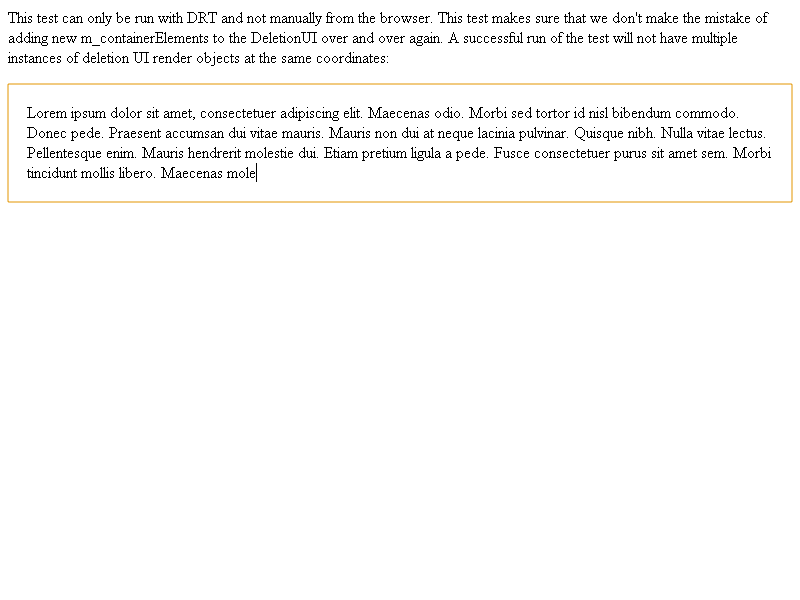
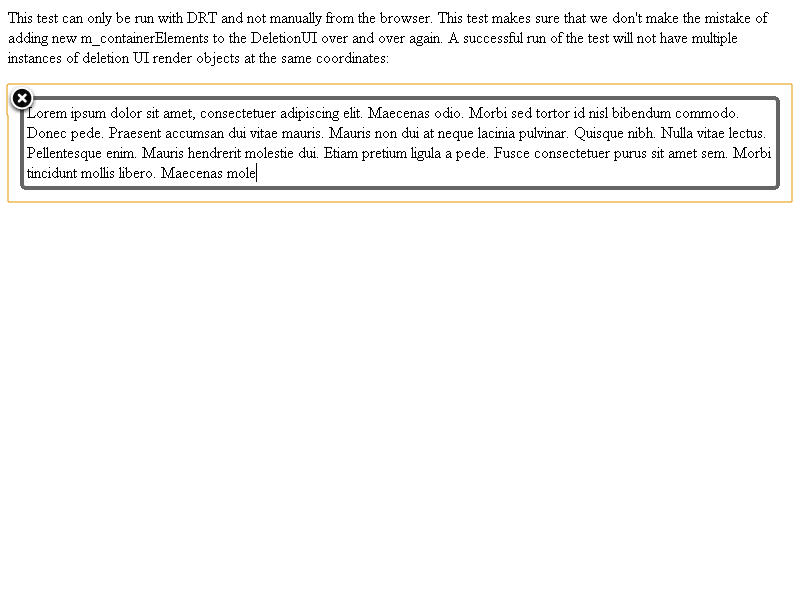
Make the editor deletion UI work in layout test mode and rebase 2 tests that use it.  The only difference is font size.
BUG=http://b/1124435

Review URL: http://codereview.chromium.org/11536

git-svn-id: http://src.chromium.org/svn/trunk/src@5790 4ff67af0-8c30-449e-8e8b-ad334ec8d88c

Changed region(s): [[0.0, 0.15, 0.9688, 0.3], [0.0312, 0.3, 0.9688, 0.33], [0.9688, 0.18, 1.0, 0.3]]

diff --git a/webkit/tools/test_shell/test_shell.cc b/webkit/tools/test_shell/test_shell.cc
@@ -442,32 +442,57 @@ bool GetPreferredExtensionForMimeType(const std::string& mime_type,
 }
 
 std::string GetDataResource(int resource_id) {
-  if (resource_id == IDR_BROKENIMAGE) {
+  switch (resource_id) {
+  case IDR_BROKENIMAGE: {
     // Use webkit's broken image icon (16x16)
     static std::string broken_image_data;
     if (broken_image_data.empty()) {
-      std::wstring path;
+      FilePath path;
       PathService::Get(base::DIR_SOURCE_ROOT, &path);
-      file_util::AppendToPath(&path, L"webkit");
-      file_util::AppendToPath(&path, L"tools");
-      file_util::AppendToPath(&path, L"test_shell");
-      file_util::AppendToPath(&path, L"resources");
-      file_util::AppendToPath(&path, L"missingImage.gif");
-      bool success = file_util::ReadFileToString(path, &broken_image_data);
+      path = path.Append(FILE_PATH_LITERAL("webkit"));
+      path = path.Append(FILE_PATH_LITERAL("tools"));
+      path = path.Append(FILE_PATH_LITERAL("test_shell"));
+      path = path.Append(FILE_PATH_LITERAL("resources"));
+      path = path.Append(FILE_PATH_LITERAL("missingImage.gif"));
+      bool success = file_util::ReadFileToString(path.ToWStringHack(),
+                                                 &broken_image_data);
       if (!success) {
-        LOG(FATAL) << "Failed reading: " << path;
+        LOG(FATAL) << "Failed reading: " << path.value();
       }
     }
     return broken_image_data;
-  } else if (resource_id == IDR_FEED_PREVIEW) {
+  }
+  case IDR_FEED_PREVIEW:
     // It is necessary to return a feed preview template that contains
     // a {{URL}} substring where the feed URL should go; see the code 
     // that computes feed previews in feed_preview.cc:MakeFeedPreview. 
     // This fixes issue #932714.    
     return std::string("Feed preview for {{URL}}");
-  } else {
-    return std::string();
+  case IDR_EDITOR_DELETE_BUTTON:{
+    // Use webkit's delete button image.
+    static std::string delete_button_data;
+    if (delete_button_data.empty()) {
+      FilePath path;
+      PathService::Get(base::DIR_SOURCE_ROOT, &path);
+      path = path.Append(FILE_PATH_LITERAL("webkit"));
+      path = path.Append(FILE_PATH_LITERAL("tools"));
+      path = path.Append(FILE_PATH_LITERAL("test_shell"));
+      path = path.Append(FILE_PATH_LITERAL("resources"));
+      path = path.Append(FILE_PATH_LITERAL("deleteButton.png"));
+      bool success = file_util::ReadFileToString(path.ToWStringHack(),
+                                                 &delete_button_data);
+      if (!success) {
+        LOG(FATAL) << "Failed reading: " << path.value();
+      }
+    }
+    return delete_button_data;
   }
+
+  default:
+    break;
+  }
+
+  return std::string();
 }
 
 GlueBitmap GetBitmapResource(int resource_id) {

diff --git a/webkit/glue/chromium_bridge_impl.cc b/webkit/glue/chromium_bridge_impl.cc
@@ -339,10 +339,13 @@ PassRefPtr<Image> ChromiumBridge::loadPlatformImageResource(const char* name) {
     resource_id = IDR_TICKMARK_DASH;
   } else if (!strcmp(name, "panIcon")) {
     resource_id = IDR_PAN_SCROLL_ICON;
-  } else if (!strcmp(name, "deleteButton") ||
-             !strcmp(name, "deleteButtonPressed")) {
-    NOTREACHED() << "Image resource " << name << " does not exist yet.";
-    return Image::nullImage();
+  } else if (!strcmp(name, "deleteButton")) {
+    if (webkit_glue::IsLayoutTestMode()) {
+      resource_id = IDR_EDITOR_DELETE_BUTTON;
+    } else {
+      NOTREACHED() << "editor deletion UI should be disabled";
+      return Image::nullImage();
+    }
   } else {
     NOTREACHED() << "Unknown image resource " << name;
     return Image::nullImage();

diff --git a/webkit/glue/webkit_resources.h b/webkit/glue/webkit_resources.h
@@ -7,6 +7,11 @@
 #define IDR_PAN_SCROLL_ICON             2003
 #define IDR_TEXTAREA_RESIZER            2004
 
+// The editor delete button is only used in layout tests so the actual
+// resource isn't in webkit_resources.rc.  This resource should not be
+// used outside of layout tests.
+#define IDR_EDITOR_DELETE_BUTTON        2005
+
 #define IDC_ALIAS                       2100
 #define IDC_CELL                        2101
 #define IDC_COLRESIZE                   2102
